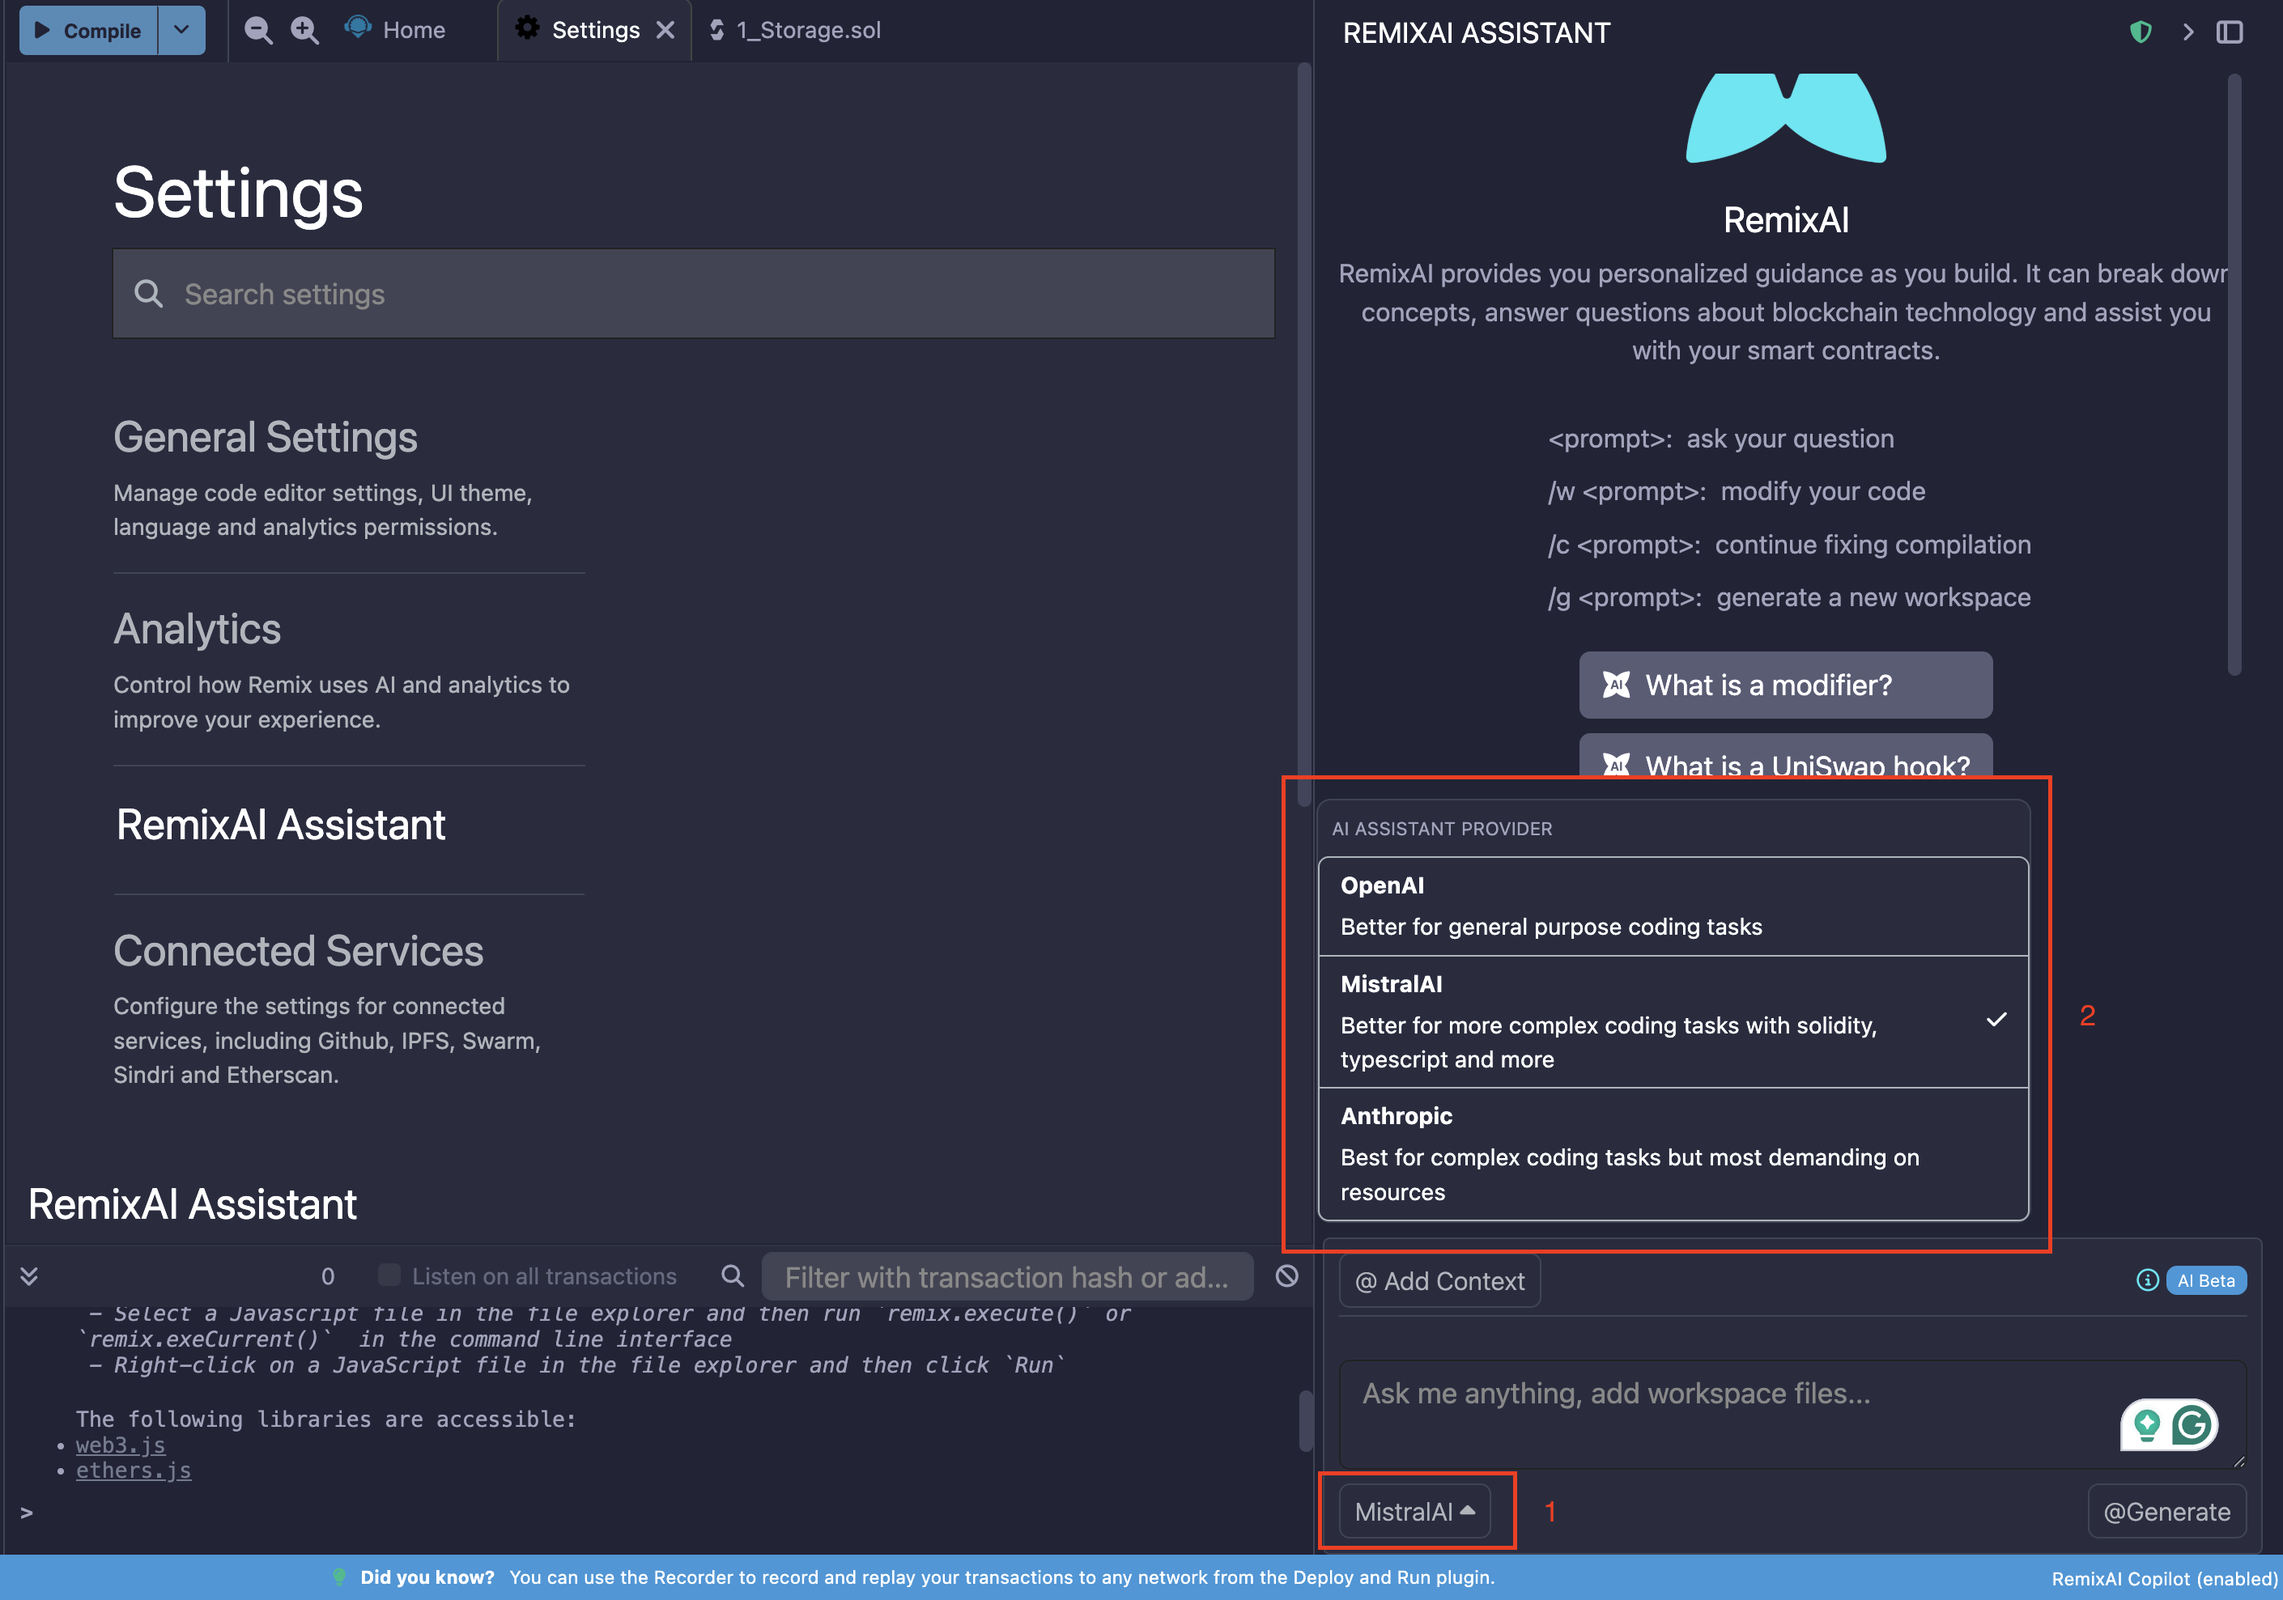
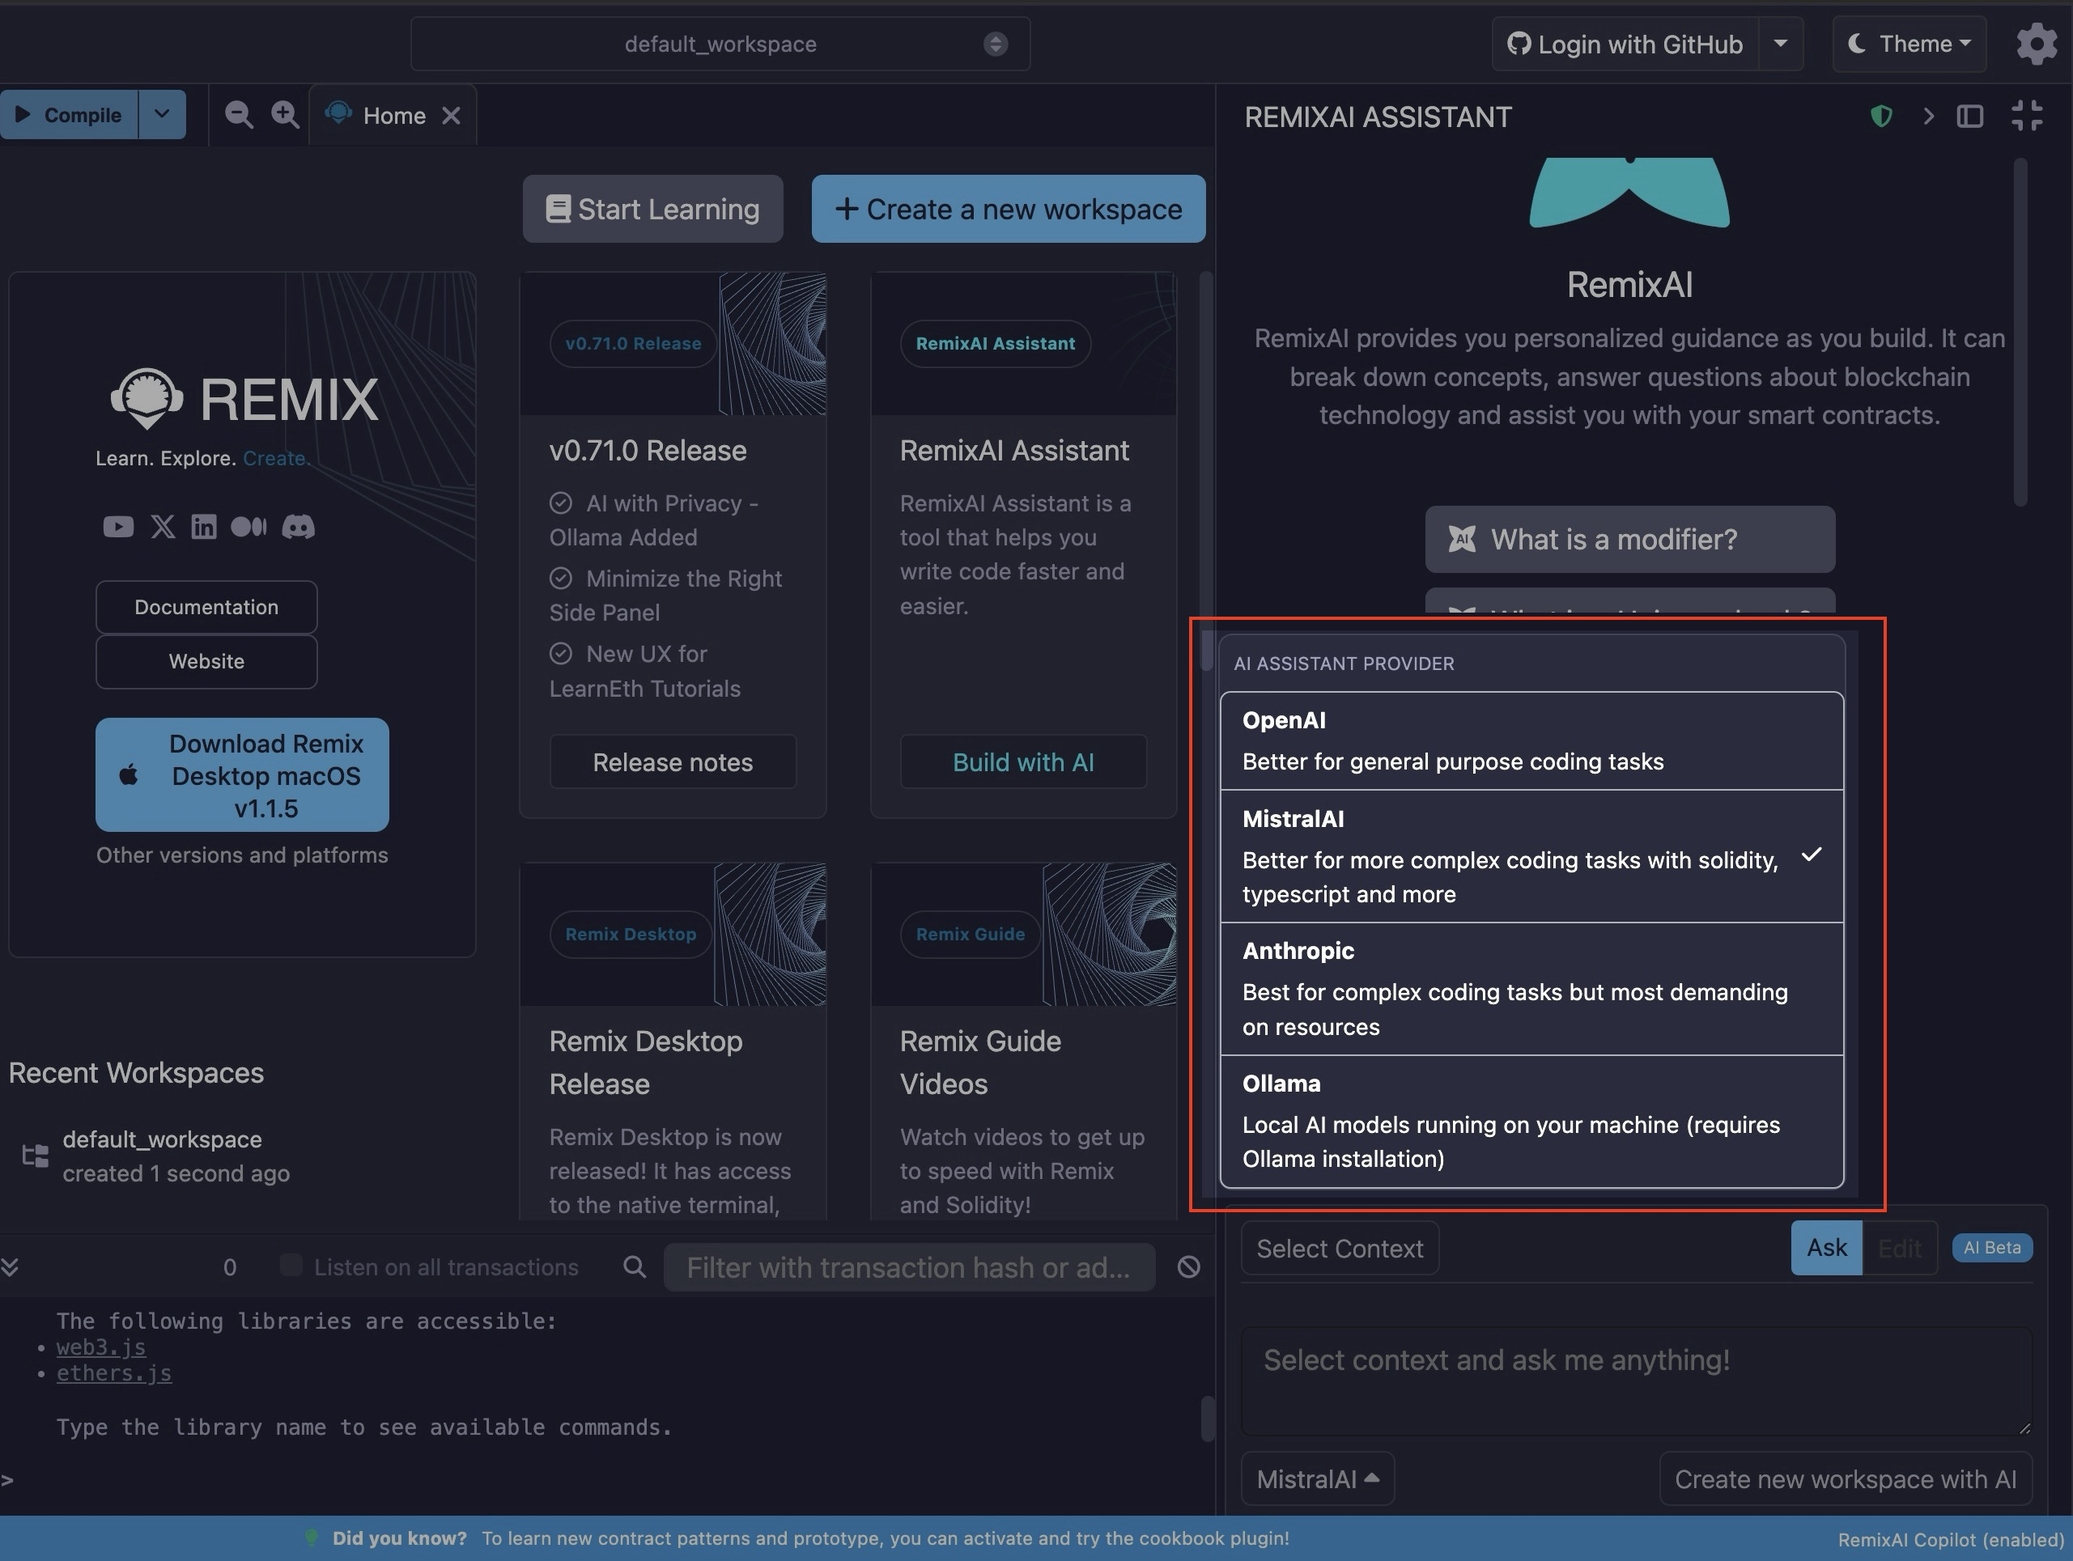
docs: update AI page

diff --git a/docs/ai.md b/docs/ai.md
@@ -32,6 +32,26 @@ You can click the "Explain Contract" button at the bottom of the Editor when a .
 
 ```
 
+## Using a Local LLM for Privacy
+
+When using an LLM, unless the LLM is local, the model is training itself on whatever you’re inputting. This “training” means the AI model is saving your information for its own use. So when you want to use an AI tool while keeping your information private, you can now use a local LLM.
+
+Remix supports Ollama, a local AI model runner that allows you to download large language models to run on your own machine.
+
+The Ollama LLMs supported by Remix include: `codestral:latest`,`quen3-coder:latest`, `gpt-oss:latest`, and `deepseek-coder-v2:latest` (great for code completion).
+
+In addition to privacy with Remix’s Ollama integration, you get:
+
+- No API Rate Throttling: No usage fees or rate limits
+- Offline Capability: Works without internet connection
+- Fill-in-Middle (FIM) Support: Advanced code completion capabilities
+
+```{note}
+The Ollama integration does not allow agentic workflows like online RemixAI currently does. Additionally, Ollama cannot edit Workspaces directly.
+```
+
+To use Ollama, click the select LLM dropdown, select "**Ollama**", then follow the instruction in the RemixAI Assistant.
+
 ## Adding context to the LLM
 
 Clicking the `@Add context` button will bring up a modal where you can set the context of your request.
@@ -77,6 +97,19 @@ For example:
 
 ```text
 // write a function that returns an array with 3 elements from the function's parameters
+```
+
+## Editor: Edit Files with Remix AI
+
+You can also edit files directly with the RemixAI Assistant and even generate new contracts. To edit a file, with the AI, switch from "Ask" to "Edit" on the RemixAI Right Side Panel.
+
+![Switch to Edit buttom](images/ai/edit-function.png)
+
+...and feed the AI instruction on what you need to edit or generate.
+
+```{tip}
+You can provide the file you want to edit or generate a new contract on [as context](#adding-context-to-llm) to get the best results.
+
 ```
 
 ## Compilers: Explain Error
